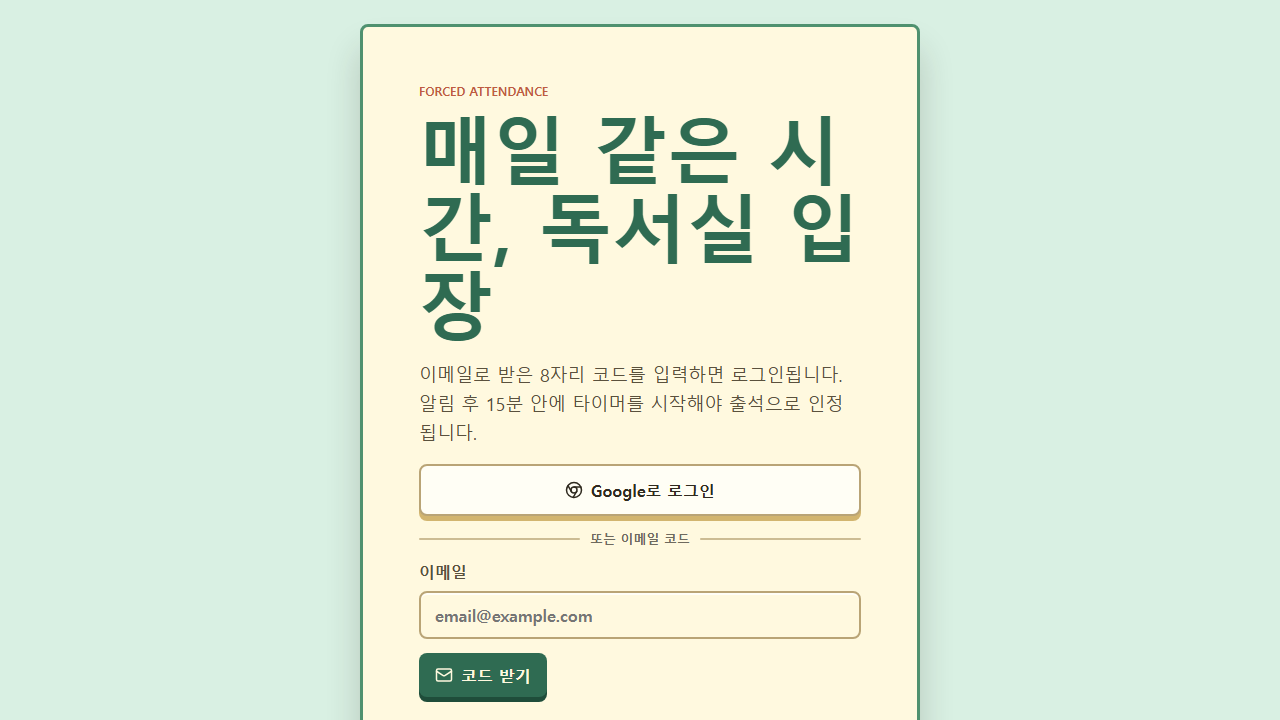
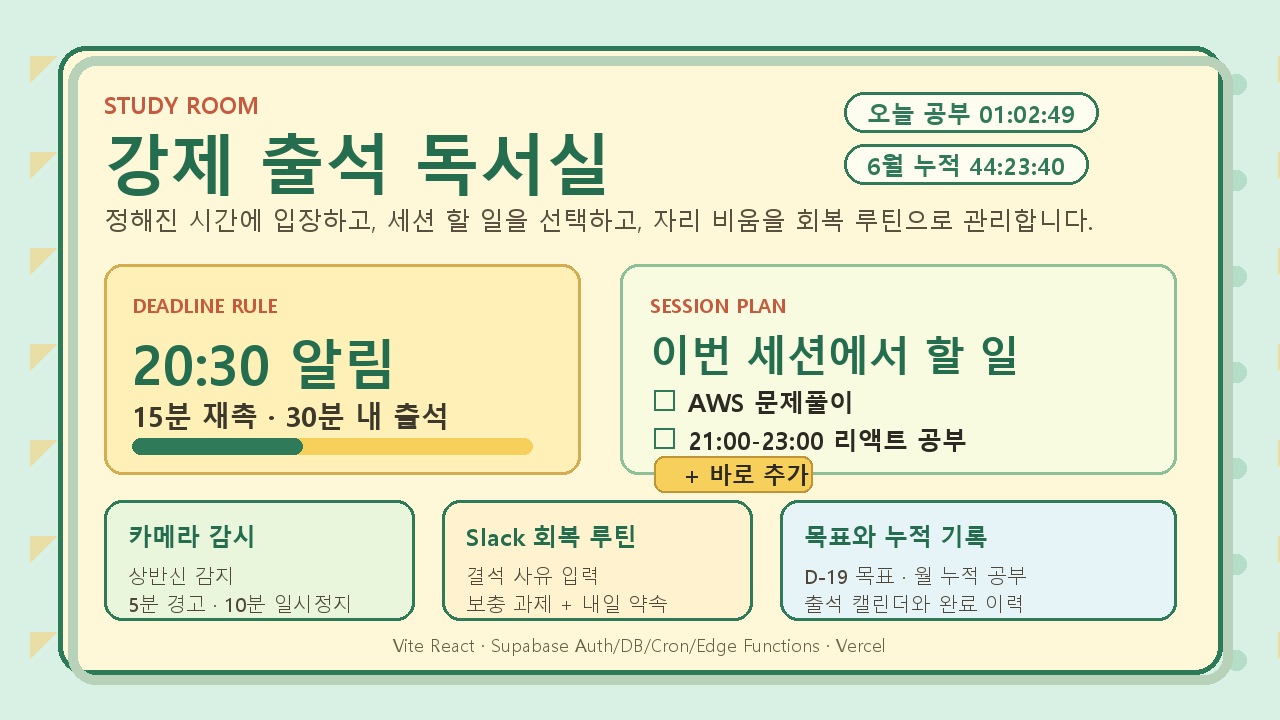
docs: refresh study room README

diff --git a/README.md b/README.md
@@ -1,19 +1,33 @@
 # 강제 출석형 독서실
 
-매일 정해진 시간에 독서실에 입장하고 공부 타이머를 시작하도록 압박하는 개인용 MVP입니다. 알림 후 15분 안에 타이머를 시작해야 출석으로 인정되며, 캘린더와 todo list로 공부 습관과 해야 할 일을 함께 관리합니다.
+매일 정해진 시간에 독서실에 입장하고 공부 세션을 시작하도록 압박하는 개인용 학습 습관 앱입니다. 웹 대시보드는 Vercel에 정적 앱으로 배포되고, 인증/DB/알림/출석 자동 처리는 Supabase가 담당합니다.
+
+[운영 앱 열기](https://study-room-attendance.vercel.app/)
 
 ![강제 출석형 독서실 썸네일](docs/images/study-room-thumbnail.png)
+
+## 핵심 흐름
+
+1. 사용자는 이메일 OTP 또는 Google OAuth로 로그인합니다.
+2. 매일 알림 시간이 되면 Supabase Cron이 Edge Function을 호출해 알림을 보냅니다.
+3. 알림 후 15분에는 한 번 더 재촉 알림을 보내고, 30분 안에 세션을 시작하지 않으면 결석 처리합니다.
+4. 세션 시작 전에는 오늘 할 일을 1개 이상 선택해야 합니다. 미리 등록하지 않았어도 세션 계획 모달에서 바로 추가할 수 있습니다.
+5. 공부 중에는 카메라 감시가 상반신 존재 여부를 브라우저 안에서만 판정합니다. 사진/영상/랜드마크 원본은 저장하지 않습니다.
+6. 결석 또는 반복 자리 비움이 발생하면 Slack 회복 루틴을 통해 사유, 보충 과제, 내일 약속을 남깁니다.
 
 ## 주요 기능
 
 - Supabase Auth 기반 이메일 OTP 로그인과 Google OAuth 로그인
-- 매일 1개 알림 시간 설정
-- 알림 후 15분 안에 타이머 시작 시 출석 인정
-- 오늘 공부 시간과 선택 월 누적 공부 시간 표시
-- 출석 캘린더와 월 선택
-- 날짜별 todo list 작성, 체크, 달성률 표시
+- 평일 알림 시간 설정, 주말 고정 알림 시간
+- 알림 후 30분 출석 창과 15분 재촉 알림
+- 평일 2시간, 주말 4시간 목표 기반 늦은 출석 회복
+- 오늘 공부 시간, 월 누적 공부 시간, 출석 캘린더
+- 날짜별 todo, 선택 시간, 요일 반복, 반복 그룹 편집
+- 세션 시작 전 todo 선택과 세션 모달 내 빠른 todo 추가
+- 목표/D-day 관리와 목표별 todo 연결
 - 내 페이지에서 계정 정보와 완료한 todo 이력 확인
-- Web Push 컴퓨터 알림, Telegram 알림, 이메일 보완 알림
+- 카메라 기반 상반신 감지, 5분 경고, 10분 자동 일시정지
+- Web Push 컴퓨터 알림, Slack Bot 알림, Resend 이메일 보완 알림
 - Supabase Cron + Edge Function 기반 서버 측 알림/결석 자동 처리
 - 선택적 AWS CDK 인프라: S3/CloudFront 정적 호스팅과 EventBridge/Lambda 호출자
 
@@ -21,36 +35,43 @@
 
 ```txt
 apps/
-  mobile/          Expo React Native 모바일 앱
   web/             Vite React 웹 대시보드
+  mobile/          Expo React Native 모바일 앱
 packages/
   core/            출석 판정, 날짜, OTP, 알림 보조 로직
 supabase/
   migrations/      DB 테이블, RLS, RPC 마이그레이션
-  functions/       attendance-cron, kakao-token, telegram-test-alarm
+  functions/       attendance-cron, camera-presence-warning,
+                   slack-recovery-interactions, slack-test-alarm
 infra/
   aws-cdk/         선택적 AWS 배포 인프라
 memory-bank/       제품/설계/진행 문서
+docs/
+  images/          README 썸네일과 문서 이미지
 ```
 
 ## 시스템 구성
 
-웹 앱은 정적 Vite 앱으로 빌드되어 Vercel, S3/CloudFront 같은 정적 호스팅에 올릴 수 있습니다. 사용자별 데이터, 인증, RLS, 알림 대상, 출석 기록은 Supabase가 관리합니다.
+웹 앱은 정적 Vite 앱으로 빌드되어 Vercel 또는 S3/CloudFront 같은 정적 호스팅에 올릴 수 있습니다. 사용자별 데이터, 인증, RLS, 알림 대상, 출석 기록은 Supabase가 관리합니다.
 
-정해진 시간 알림은 브라우저가 꺼져 있어도 동작해야 하므로 클라이언트가 직접 예약하지 않습니다. Supabase Cron이 `attendance-cron` Edge Function을 주기적으로 호출하고, Edge Function이 알림 대상자를 조회해 Web Push, Telegram, 이메일 fallback을 발송합니다.
+정해진 시간 알림은 브라우저가 꺼져 있어도 동작해야 하므로 클라이언트가 직접 예약하지 않습니다. Supabase Cron이 `attendance-cron` Edge Function을 주기적으로 호출하고, Edge Function이 알림 대상자를 조회해 Web Push, Slack, 이메일 fallback을 발송합니다.
+
+카메라 감시는 웹 브라우저에서만 수행합니다. 서버에는 `camera_started`, `absence_warning` 같은 이벤트 메타데이터만 저장하고, 이미지/영상/얼굴 특징값은 저장하지 않습니다.
 
 자세한 인프라 구성도와 알림/출석 처리 흐름은 [인프라 구성도](docs/infrastructure-architecture.md)를 참고합니다.
 
 ## 환경 변수
 
-`.env.example`을 기준으로 로컬 `.env` 또는 배포 환경 변수를 설정합니다. 실제 키는 커밋하지 않습니다.
+`.env.example`을 기준으로 로컬 `.env` 또는 배포 환경 변수를 설정합니다. 실제 키와 토큰은 커밋하지 않습니다.
 
 ```txt
+# Web dashboard
 VITE_SUPABASE_URL
 VITE_SUPABASE_ANON_KEY
 VITE_WEB_PUSH_VAPID_PUBLIC_KEY
 VITE_GOOGLE_AUTH_ENABLED
 
+# Supabase Edge Functions / scheduler
 SUPABASE_URL
 SUPABASE_SERVICE_ROLE_KEY
 CRON_SECRET
@@ -58,8 +79,15 @@ WEB_PUSH_VAPID_PUBLIC_KEY
 WEB_PUSH_VAPID_PRIVATE_KEY
 WEB_PUSH_SUBJECT
 RESEND_API_KEY
-TELEGRAM_BOT_TOKEN
+RESEND_FROM_EMAIL
+SLACK_BOT_TOKEN
+SLACK_SIGNING_SECRET
 APP_ORIGIN
+
+# Expo mobile
+EXPO_PUBLIC_SUPABASE_URL
+EXPO_PUBLIC_SUPABASE_ANON_KEY
+EXPO_PUBLIC_EAS_PROJECT_ID
 ```
 
 ## 로컬 실행
@@ -84,7 +112,7 @@ npm.cmd test
 npm.cmd run build
 ```
 
-현재 테스트는 출석 판정, OTP 처리, OAuth callback, Web Push 보조 로직, Telegram 알림, todo 이력 페이지네이션, 모바일 라이트 테마 회귀 방지를 포함합니다.
+테스트는 출석 정책, OTP/OAuth, Web Push, Slack 알림, 카메라 감시, 세션 lease, todo 반복/시간 설정, 목표, 회복 루틴, 세션-todo 연결, SQL migration 검증을 포함합니다.
 
 ## 배포
 
@@ -97,8 +125,8 @@ npm.cmd run build
 ### Supabase
 
 1. `supabase/migrations` SQL을 적용합니다.
-2. `attendance-cron` Edge Function을 배포합니다.
-3. Edge Function secrets에 `CRON_SECRET`, VAPID 키, Resend 키, Telegram bot token 등을 설정합니다.
+2. `attendance-cron`, `camera-presence-warning`, `slack-recovery-interactions`, `slack-test-alarm` Edge Function을 배포합니다.
+3. Edge Function secrets에 `CRON_SECRET`, VAPID 키, Resend 키, Slack bot token, Slack signing secret 등을 설정합니다.
 4. Supabase Vault에 `project_url`, `cron_secret`을 저장합니다.
 5. `supabase/cron.sql`로 pg_cron 일정을 등록합니다.
 
@@ -112,7 +140,8 @@ npm.cmd run infra:synth
 
 ## 보안 메모
 
-- Supabase service role key, Telegram bot token, Resend key, VAPID private key는 프론트엔드에 넣지 않습니다.
+- Supabase service role key, Slack bot token, Slack signing secret, Resend key, VAPID private key는 프론트엔드에 넣지 않습니다.
 - 사용자 데이터는 Supabase RLS를 기준으로 본인 데이터만 접근하도록 제한합니다.
-- Telegram Chat ID는 사용자별 `notification_targets`에 저장하고, bot token은 Edge Function secret으로만 관리합니다.
-- README나 memory-bank에 실제 토큰, Chat ID, 개인 이메일을 기록하지 않습니다.
+- Slack Channel ID는 사용자별 `notification_targets`에 저장하고, bot token은 Edge Function secret으로만 관리합니다.
+- 카메라 사진/영상/얼굴 특징값/포즈 랜드마크 원본은 저장하지 않습니다.
+- README나 memory-bank에 실제 토큰, Chat ID, Channel ID, 개인 이메일을 기록하지 않습니다.